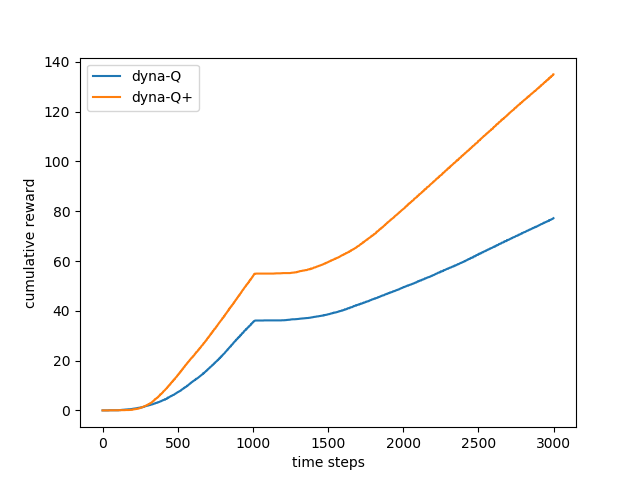
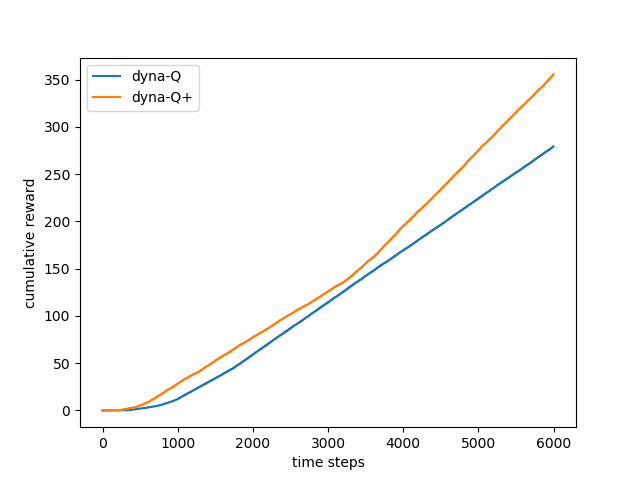
figure 8 5

diff --git a/Chap_8/my_maze.py b/Chap_8/my_maze.py
@@ -79,7 +79,7 @@ class Maze_model(object):
   def record(self, state_action, state, reward):
     self.time += 1
     pre_state, action = state_action
-    if self.k > 1e-5:
+    if bool(self.k):
       flag = True
       for action_ in self.actions:
         if (pre_state, action_) in self.model.keys():
@@ -93,7 +93,7 @@ class Maze_model(object):
 
   def sample(self):
     (state_0, action_0), (state_, reward_, t) = random.choice(list(self.model.items()))
-    if self.k > 1e-5:
+    if bool(self.k):
       reward_ += self.k * np.sqrt(self.time - t)
     return (state_0, action_0), (state_, reward_)
 
@@ -259,8 +259,63 @@ def fig_8_4():
   plt.close()
 
 
+def fig_8_5():
+  global ALPHA
+  ALPHA = 1.0
+  k = 1e-3
+  obstacles = [[4, i] for i in range(2, 10)]
+  new_obstacles = [[4, i] for i in range(2, 9)]
+  start_state = (6, 4)
+  maze_model = Maze_model()
+  change_step = 3000
+  n = 10
+  runs = 5
+  max_step = 6000
+  cum_reward = np.zeros((runs, 2, max_step))
+  for r in tqdm(range(runs), ncols=64):
+    seed = np.random.randint(1, 10000)
+    for q in range(2):
+      change_flag = True
+      if q == 1:
+        maze_model.init_model(k)
+      else:
+        maze_model.init_model()
+      maze = Maze(obstacles=obstacles, start_state=start_state)
+      step = 0
+      last_step = step
+      reward = 0
+      value = np.zeros((maze.height + 2, maze.width + 2, 4))
+      ep_greedy = Epsilon_greedy(seed=seed)
+      while step < max_step:
+        if q == 0:
+          step += dyna_Q(n, maze, ep_greedy, value, maze_model)
+        else:
+          step += dyna_Q_plus(n, maze, ep_greedy, value, maze_model)
+        cum_reward[r, q, last_step: min(step, max_step)] = reward
+        reward += 1
+        last_step = step
+        if change_flag and step > change_step:
+          maze = Maze(obstacles=new_obstacles, start_state=start_state)
+          change_flag = False
+  cum_reward = cum_reward.mean(axis=0)
+  plt.plot(cum_reward[0], label='dyna-Q')
+  plt.plot(cum_reward[1], label='dyna-Q+')
+  plt.xlabel('time steps')
+  plt.ylabel('cumulative reward')
+  plt.legend()
+
+  plt.savefig('../images/figure_8_4.png')
+  plt.close()
+
+
+def example_8_4():
+  pass
+
+
 if __name__ == '__main__':
   # fig_8_2()
-  fig_8_4()
+  # fig_8_4()
+  # fig_8_5()
+  example_8_4()
   # maze = Maze()
   # print(maze._maze)

diff --git a/Chap_8/maze.py b/Chap_8/maze.py
@@ -666,6 +666,6 @@ def example_8_4():
 
 if __name__ == '__main__':
   # figure_8_2()
-  figure_8_4()
+  # figure_8_4()
   # figure_8_5()
-  # example_8_4()
+  example_8_4()

diff --git a/test.py b/test.py
@@ -2,4 +2,4 @@ import numpy as np
 import random
 
 a = np.array([[1, 2], [3, 4]])
-print(a[[0, 1]])
+print(bool(1e-4))
